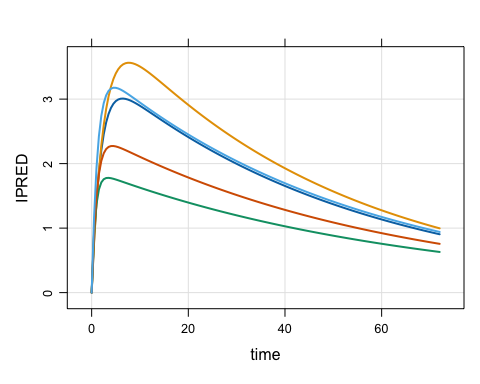
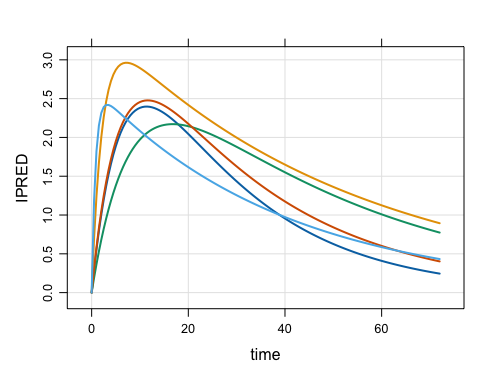
refresh readme

diff --git a/README.md b/README.md
@@ -60,15 +60,15 @@ out
 . Dim  : 1.4M x 4
 . Files: 1 [13.2 Mb]
 . Owner: yes (gc)
-.     ID time        CL     IPRED
-. 1:   1  0.0 0.9648573 0.0000000
-. 2:   1  0.0 0.9648573 0.0000000
-. 3:   1  0.5 0.9648573 0.5279033
-. 4:   1  1.0 0.9648573 0.9509657
-. 5:   1  1.5 0.9648573 1.2886638
-. 6:   1  2.0 0.9648573 1.5568730
-. 7:   1  2.5 0.9648573 1.7685336
-. 8:   1  3.0 0.9648573 1.9341928
+.     ID time       CL     IPRED
+. 1:   1  0.0 1.170849 0.0000000
+. 2:   1  0.0 1.170849 0.0000000
+. 3:   1  0.5 1.170849 0.9304048
+. 4:   1  1.0 1.170849 1.6292029
+. 5:   1  1.5 1.170849 2.1489780
+. 6:   1  2.0 1.170849 2.5304864
+. 7:   1  2.5 1.170849 2.8053143
+. 8:   1  3.0 1.170849 2.9979387
 ```
 
 ## Very lightweight simulation output object
@@ -79,7 +79,7 @@ disk.
 
 ``` r
 basename(out$files)
-. [1] "mrgsims-ds-136b57a594b2d.parquet"
+. [1] "mrgsims-ds-486110cf3d3.parquet"
 ```
 
 This means there is almost nothing inside the object itself
@@ -124,23 +124,23 @@ head(out)
 . # A tibble: 6 × 4
 .      ID  time    CL IPRED
 .   <dbl> <dbl> <dbl> <dbl>
-. 1     1   0   0.965 0    
-. 2     1   0   0.965 0    
-. 3     1   0.5 0.965 0.528
-. 4     1   1   0.965 0.951
-. 5     1   1.5 0.965 1.29 
-. 6     1   2   0.965 1.56
+. 1     1   0    1.17 0    
+. 2     1   0    1.17 0    
+. 3     1   0.5  1.17 0.930
+. 4     1   1    1.17 1.63 
+. 5     1   1.5  1.17 2.15 
+. 6     1   2    1.17 2.53
 
 tail(out)
 . # A tibble: 6 × 4
 .      ID  time    CL IPRED
 .   <dbl> <dbl> <dbl> <dbl>
-. 1  3000  238. 0.550 0.191
-. 2  3000  238  0.550 0.188
-. 3  3000  238. 0.550 0.184
-. 4  3000  239  0.550 0.181
-. 5  3000  240. 0.550 0.178
-. 6  3000  240  0.550 0.175
+. 1  3000  238. 0.877 0.384
+. 2  3000  238  0.877 0.379
+. 3  3000  238. 0.877 0.375
+. 4  3000  239  0.877 0.370
+. 5  3000  240. 0.877 0.365
+. 6  3000  240  0.877 0.361
 
 dim(out)
 . [1] 1446000       4
@@ -154,16 +154,16 @@ as_tibble(out)
 . # A tibble: 1,446,000 × 4
 .       ID  time    CL IPRED
 .    <dbl> <dbl> <dbl> <dbl>
-.  1     1   0   0.965 0    
-.  2     1   0   0.965 0    
-.  3     1   0.5 0.965 0.528
-.  4     1   1   0.965 0.951
-.  5     1   1.5 0.965 1.29 
-.  6     1   2   0.965 1.56 
-.  7     1   2.5 0.965 1.77 
-.  8     1   3   0.965 1.93 
-.  9     1   3.5 0.965 2.06 
-. 10     1   4   0.965 2.16 
+.  1     1   0    1.17 0    
+.  2     1   0    1.17 0    
+.  3     1   0.5  1.17 0.930
+.  4     1   1    1.17 1.63 
+.  5     1   1.5  1.17 2.15 
+.  6     1   2    1.17 2.53 
+.  7     1   2.5  1.17 2.81 
+.  8     1   3    1.17 3.00 
+.  9     1   3.5  1.17 3.13 
+. 10     1   4    1.17 3.21 
 . # ℹ 1,445,990 more rows
 ```
 
@@ -186,19 +186,19 @@ Or try your hand at duckdb
 ``` r
 as_duckdb_ds(out)
 . # Source:   table<arrow_001> [?? x 4]
-. # Database: DuckDB 1.4.4 [kyleb@Darwin 24.6.0:R 4.5.3/:memory:]
+. # Database: DuckDB 1.5.1 [kyleb@Darwin 24.6.0:R 4.5.3/:memory:]
 .       ID  time    CL IPRED
 .    <dbl> <dbl> <dbl> <dbl>
-.  1     1   0   0.965 0    
-.  2     1   0   0.965 0    
-.  3     1   0.5 0.965 0.528
-.  4     1   1   0.965 0.951
-.  5     1   1.5 0.965 1.29 
-.  6     1   2   0.965 1.56 
-.  7     1   2.5 0.965 1.77 
-.  8     1   3   0.965 1.93 
-.  9     1   3.5 0.965 2.06 
-. 10     1   4   0.965 2.16 
+.  1     1   0    1.17 0    
+.  2     1   0    1.17 0    
+.  3     1   0.5  1.17 0.930
+.  4     1   1    1.17 1.63 
+.  5     1   1.5  1.17 2.15 
+.  6     1   2    1.17 2.53 
+.  7     1   2.5  1.17 2.81 
+.  8     1   3    1.17 3.00 
+.  9     1   3.5  1.17 3.13 
+. 10     1   4    1.17 3.21 
 . # ℹ more rows
 ```
 
@@ -232,15 +232,15 @@ collect(dd)
 .     time  Mean     n
 .    <dbl> <dbl> <int>
 .  1   0    0     6000
-.  2   0.5  1.08  3000
-.  3   1    1.77  3000
-.  4   1.5  2.23  3000
-.  5   2    2.55  3000
-.  6   2.5  2.77  3000
-.  7   3    2.91  3000
-.  8   3.5  3.01  3000
+.  2   0.5  1.09  3000
+.  3   1    1.79  3000
+.  4   1.5  2.25  3000
+.  5   2    2.56  3000
+.  6   2.5  2.78  3000
+.  7   3    2.92  3000
+.  8   3.5  3.02  3000
 .  9   4    3.08  3000
-. 10   4.5  3.11  3000
+. 10   4.5  3.12  3000
 . # ℹ 471 more rows
 ```
 
@@ -268,15 +268,15 @@ out2
 . Dim  : 14.5M x 4
 . Files: 10 [131.8 Mb]
 . Owner: yes (gc)
-.     ID time        CL     IPRED
-. 1:   1  0.0 0.4087804 0.0000000
-. 2:   1  0.0 0.4087804 0.0000000
-. 3:   1  0.5 0.4087804 0.1660721
-. 4:   1  1.0 0.4087804 0.3228486
-. 5:   1  1.5 0.4087804 0.4707932
-. 6:   1  2.0 0.4087804 0.6103471
-. 7:   1  2.5 0.4087804 0.7419299
-. 8:   1  3.0 0.4087804 0.8659402
+.     ID time       CL    IPRED
+. 1:   1  0.0 0.672067 0.000000
+. 2:   1  0.0 0.672067 0.000000
+. 3:   1  0.5 0.672067 1.129249
+. 4:   1  1.0 0.672067 2.018886
+. 5:   1  1.5 0.672067 2.715466
+. 6:   1  2.0 0.672067 3.256577
+. 7:   1  2.5 0.672067 3.672563
+. 8:   1  3.0 0.672067 3.987920
 ```
 
 ``` r
@@ -291,11 +291,11 @@ All `arrow` files are stored in the `tempdir()` in parquet format
 ``` r
 list_temp()
 . 11 files [145 Mb]
-. - mrgsims-ds-136b57a594b2d.parquet
-. - mrgsims-ds-136f93697cf0f.parquet
+. - mrgsims-ds-486110cf3d3.parquet
+. - mrgsims-ds-4cd40dc5bf2.parquet
 .    ...
-. - mrgsims-ds-136fd1998f902.parquet
-. - mrgsims-ds-136fda03ff6f.parquet
+. - mrgsims-ds-4d149917672.parquet
+. - mrgsims-ds-4d17ebf6d10.parquet
 ```
 
 This directory is eventually removed when the R session ends. Tools are
@@ -307,11 +307,11 @@ retain_temp(out2)
 
 list_temp()
 . 10 files [131.8 Mb]
-. - mrgsims-ds-136f93697cf0f.parquet
-. - mrgsims-ds-136f94c391131.parquet
+. - mrgsims-ds-4cd40dc5bf2.parquet
+. - mrgsims-ds-4cd76cdcb45.parquet
 .    ...
-. - mrgsims-ds-136fd1998f902.parquet
-. - mrgsims-ds-136fda03ff6f.parquet
+. - mrgsims-ds-4d149917672.parquet
+. - mrgsims-ds-4d17ebf6d10.parquet
 ```
 
 We also put a finalizer on each object so that, when it goes out of
@@ -339,11 +339,11 @@ There are 12 files holding simulation outputs.
 ``` r
 list_temp()
 . 12 files [158.2 Mb]
-. - mrgsims-ds-out1-0001.parquet
-. - mrgsims-ds-out2-0001.parquet
+. - mrgsims-ds-out1-1.parquet
+. - mrgsims-ds-out2-01.parquet
 .    ...
-. - mrgsims-ds-out2-0010.parquet
-. - mrgsims-ds-out3-0001.parquet
+. - mrgsims-ds-out2-10.parquet
+. - mrgsims-ds-out3-1.parquet
 ```
 
 Now, remove one of the objects containing 10 files.
@@ -358,13 +358,13 @@ cleaned up.
 ``` r
 gc()
 .            used  (Mb) gc trigger  (Mb) limit (Mb) max used  (Mb)
-. Ncells  2308276 123.3    3828742 204.5         NA  3828742 204.5
-. Vcells 15723850 120.0   26766118 204.3      16384 22237732 169.7
+. Ncells  2275239 121.6    3813578 203.7         NA  3813578 203.7
+. Vcells 15673798 119.6   26745405 204.1      16384 22220811 169.6
 
 list_temp()
 . 2 files [26.4 Mb]
-. - mrgsims-ds-out1-0001.parquet
-. - mrgsims-ds-out3-0001.parquet
+. - mrgsims-ds-out1-1.parquet
+. - mrgsims-ds-out3-1.parquet
 ```
 
 ### Ownership
@@ -446,15 +446,15 @@ out[[1]]
 . Dim  : 876 x 4
 . Files: 1 [10.5 Kb]
 . Owner: no
-.     ID TIME        CL     IPRED
-. 1:   1  0.0 0.5554277 0.0000000
-. 2:   1  0.0 0.5554277 0.0000000
-. 3:   1  0.5 0.5554277 0.8066047
-. 4:   1  1.0 0.5554277 1.4129891
-. 5:   1  1.5 0.5554277 1.8670459
-. 6:   1  2.0 0.5554277 2.2052282
-. 7:   1  2.5 0.5554277 2.4552817
-. 8:   1  3.0 0.5554277 2.6383245
+.     ID TIME       CL     IPRED
+. 1:   1  0.0 1.098624 0.0000000
+. 2:   1  0.0 1.098624 0.0000000
+. 3:   1  0.5 1.098624 0.2922486
+. 4:   1  1.0 1.098624 0.5561621
+. 5:   1  1.5 1.098624 0.7940186
+. 6:   1  2.0 1.098624 1.0079207
+. 7:   1  2.5 1.098624 1.1998089
+. 8:   1  3.0 1.098624 1.3714743
 . [mrgsim.ds] pointer and source pid refreshed.
 ```
 
@@ -483,15 +483,15 @@ out
 . Dim  : 2,628 x 4
 . Files: 3 [31.4 Kb]
 . Owner: yes (gc)
-.     ID TIME        CL     IPRED
-. 1:   1  0.0 0.5554277 0.0000000
-. 2:   1  0.0 0.5554277 0.0000000
-. 3:   1  0.5 0.5554277 0.8066047
-. 4:   1  1.0 0.5554277 1.4129891
-. 5:   1  1.5 0.5554277 1.8670459
-. 6:   1  2.0 0.5554277 2.2052282
-. 7:   1  2.5 0.5554277 2.4552817
-. 8:   1  3.0 0.5554277 2.6383245
+.     ID TIME       CL     IPRED
+. 1:   1  0.0 1.098624 0.0000000
+. 2:   1  0.0 1.098624 0.0000000
+. 3:   1  0.5 1.098624 0.2922486
+. 4:   1  1.0 1.098624 0.5561621
+. 5:   1  1.5 1.098624 0.7940186
+. 6:   1  2.0 1.098624 1.0079207
+. 7:   1  2.5 1.098624 1.1998089
+. 8:   1  3.0 1.098624 1.3714743
 ```
 
 Now we have all three files collected in a single object that we can
@@ -503,7 +503,49 @@ plot(out, IPRED ~ time, nid = 5)
 
 <img src="man/figures/README-parallel_output-1.png" alt="" width="80%" style="display: block; margin: auto;" />
 
-### Details
+## Save outputs
+
+You can save the simulation output object for use later
+
+``` r
+save_ds(out, "inst/readme_temp/sims.rds")
+. ℹ files are now located in inst/readme_temp; gc is off.
+```
+
+This saves the object in an `.rds` file located in the `inst` directory.
+Importantly, the backing files are also relocated to the `.rds` location
+so they can be found later on.
+
+On read, the object is fully functional again with ownership transferred
+to the new object.
+
+``` r
+out2 <- read_ds("inst/readme_temp/sims.rds")
+
+out2
+. Model: popex
+. Dim  : 2,628 x 4
+. Files: 3 [31.4 Kb]
+. Owner: yes (no gc)
+.     ID TIME       CL     IPRED
+. 1:   1  0.0 1.098624 0.0000000
+. 2:   1  0.0 1.098624 0.0000000
+. 3:   1  0.5 1.098624 0.2922486
+. 4:   1  1.0 1.098624 0.5561621
+. 5:   1  1.5 1.098624 0.7940186
+. 6:   1  2.0 1.098624 1.0079207
+. 7:   1  2.5 1.098624 1.1998089
+. 8:   1  3.0 1.098624 1.3714743
+```
+
+``` r
+check_ownership(out)
+. [1] FALSE
+check_ownership(out2)
+. [1] TRUE
+```
+
+## Details
 
 `mrgsim.ds` tracks the `tempdir()` location and the process ID (via
 `Sys.getpid()`) of the R process where the model was loaded. When